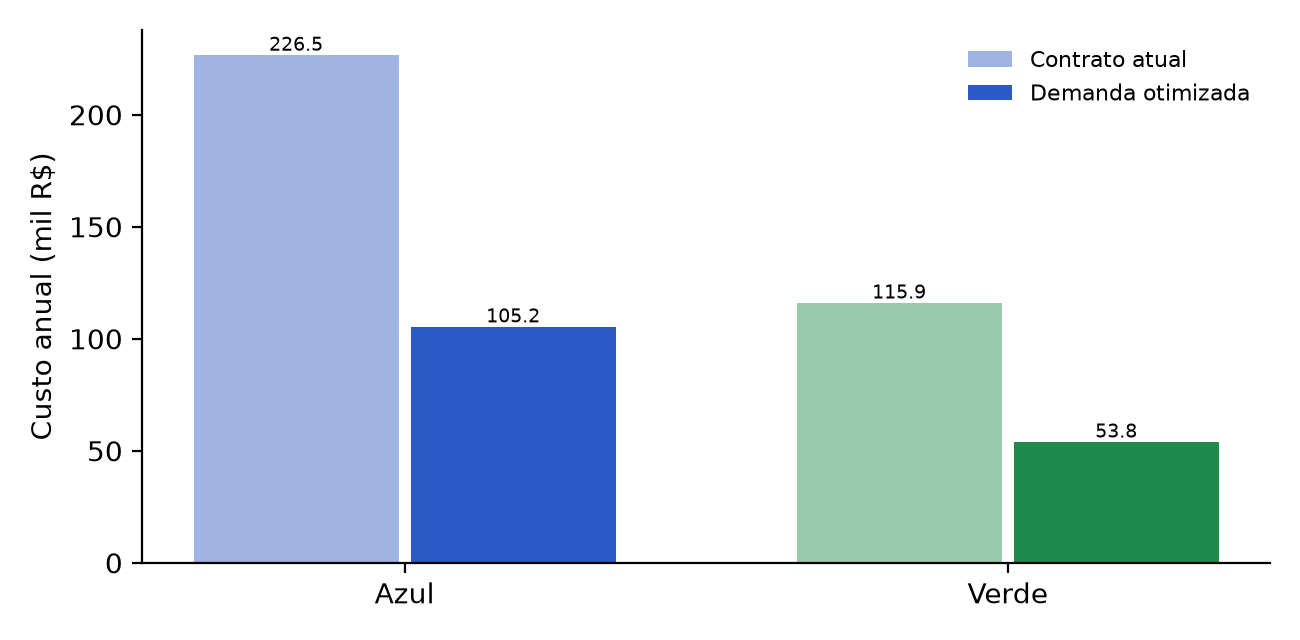
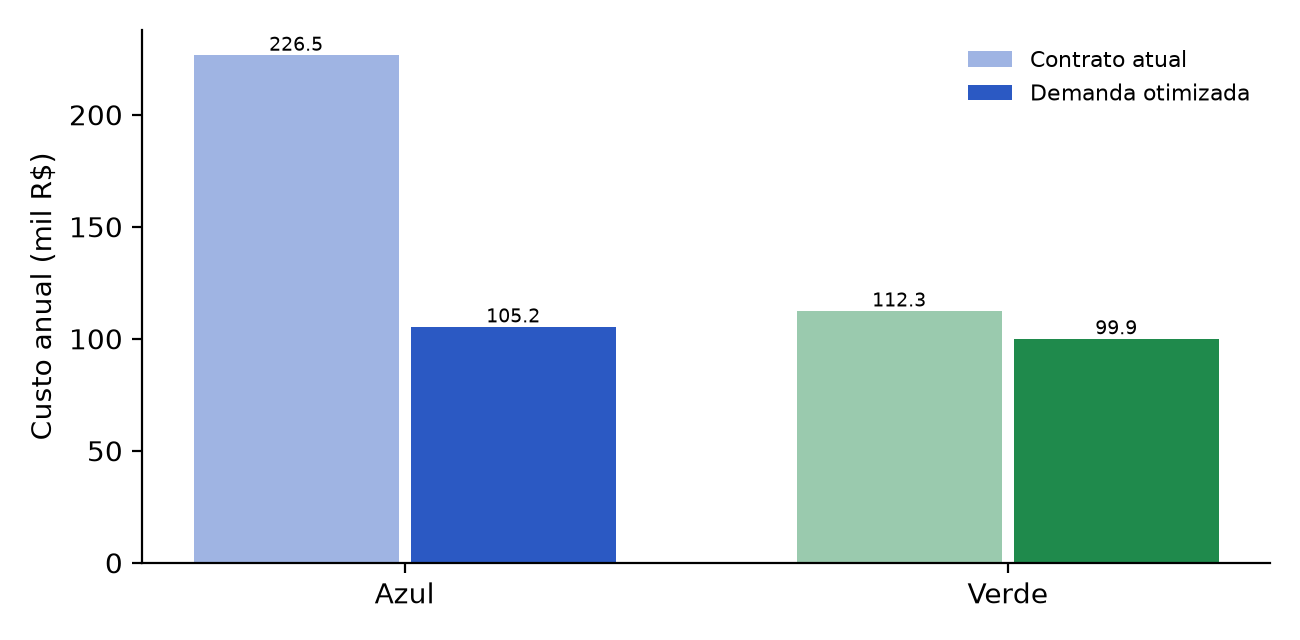
docs(artigo): refaz resultados após correção da DC da Verde

Changed region(s): [[0.7692, 0.5, 0.9538, 0.6875], [0.6154, 0.4375, 0.7692, 0.5]]

diff --git a/docs/artigo/resultados/tabela_planejamento.md b/docs/artigo/resultados/tabela_planejamento.md
@@ -6,9 +6,9 @@
 | Modalidade | DC atual (kW) | Custo atual (R$/ano) | DC ótima (kW) | Custo otimizado (R$/ano) | E-PI simplificado (R$/MWh) | E-PI c/ OPEX+CAPEX (R$/MWh) |
 |---|---:|---:|---:|---:|---:|---:|
 | Azul | (400.0, 400.0) | 823,406.07 | (200.0, 204.0) | 650,020.87 | 297.1125902370257 | 281.31662783912157 |
-| Verde | 400.0 | 708,343.71 | 30.0 | 605,919.10 | 297.1125902370257 | 281.31662783912157 |
+| Verde | 400.0 | 697,736.45 | 204.0 | 657,708.55 | 297.1125902370257 | 281.31662783912157 |
 
-Ganho total R$ 102,424.61 = ajuste de demanda R$ 102,424.61 + troca de modalidade R$ 0.00.
+Ganho total R$ 47,715.58 = ajuste de demanda R$ 40,027.90 + troca de modalidade R$ 7,687.68.
 Optante B: inelegível — Optante B (art. 292): exige transformadores ≤ 112,5 kVA (ou ≤ 1.125 kVA se cooperativa de eletrificação rural), hotelaria/turismo ou iluminação esportiva ≥ 2/3 da carga (atividades esportivas/parques agropecuários)..
 
 ## Copel · UC COPEL-1 · A4 Verde · mai/2022–abr/2023
@@ -16,7 +16,7 @@ Optante B: inelegível — Optante B (art. 292): exige transformadores ≤ 112,5
 | Modalidade | DC atual (kW) | Custo atual (R$/ano) | DC ótima (kW) | Custo otimizado (R$/ano) | E-PI simplificado (R$/MWh) | E-PI c/ OPEX+CAPEX (R$/MWh) |
 |---|---:|---:|---:|---:|---:|---:|
 | Azul | (260.0, 260.0) | 226,505.14 | (30.0, 201.0) | 105,228.63 | 265.0660714033046 | 133.69642063630408 |
-| Verde | 260.0 | 115,894.10 | 30.0 | 53,844.29 | 265.0660714033046 | 133.69642063630408 |
+| Verde | 260.0 | 112,334.21 | 201.0 | 99,940.24 | 265.0660714033046 | 133.69642063630408 |
 
-Ganho total R$ 62,049.82 = ajuste de demanda R$ 62,049.82 + troca de modalidade R$ 0.00.
+Ganho total R$ 12,393.97 = ajuste de demanda R$ 12,393.97 + troca de modalidade R$ 0.00.
 Optante B: inelegível — Optante B (art. 292): exige transformadores ≤ 112,5 kVA (ou ≤ 1.125 kVA se cooperativa de eletrificação rural), hotelaria/turismo ou iluminação esportiva ≥ 2/3 da carga (atividades esportivas/parques agropecuários)..
